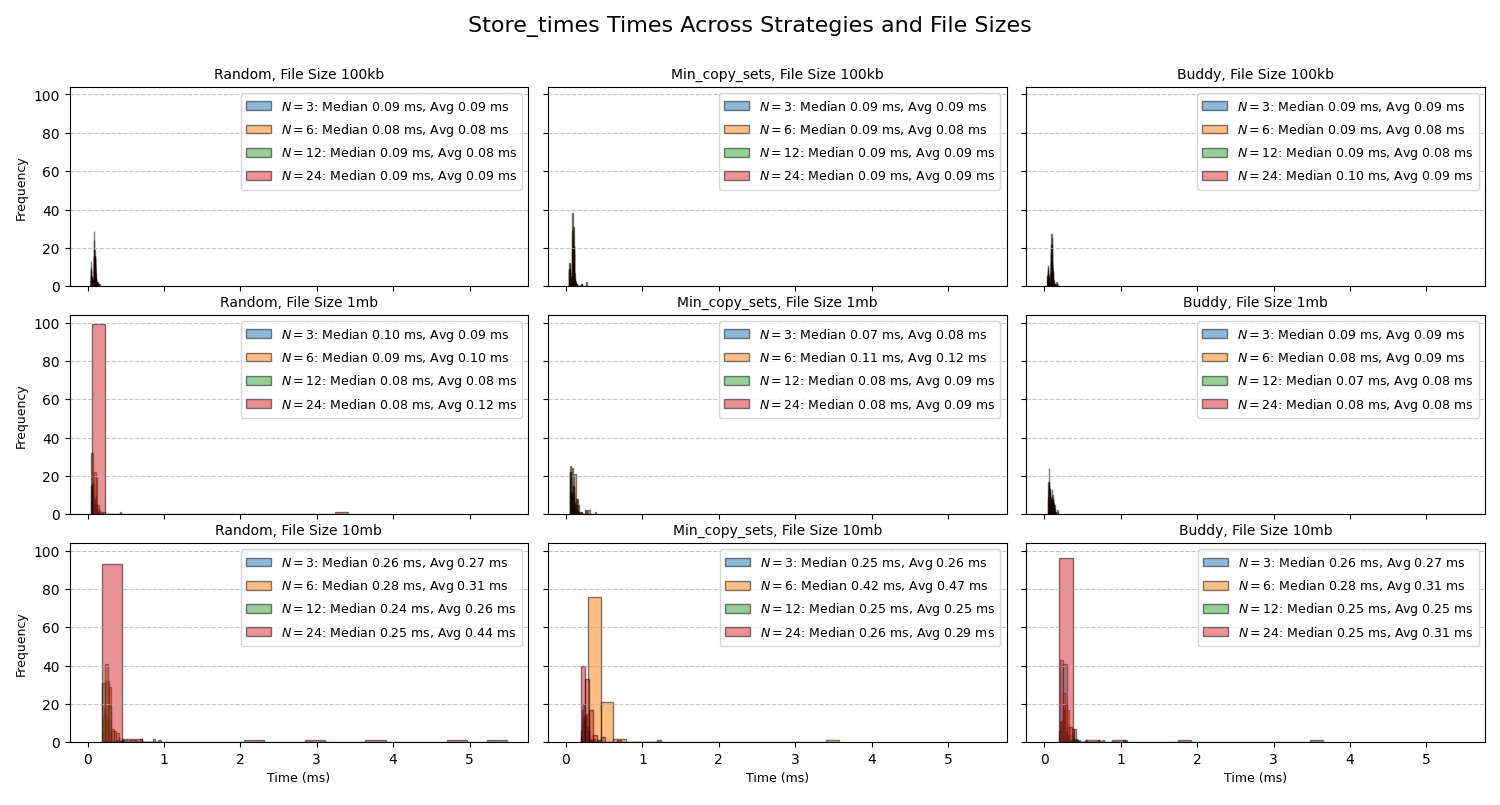
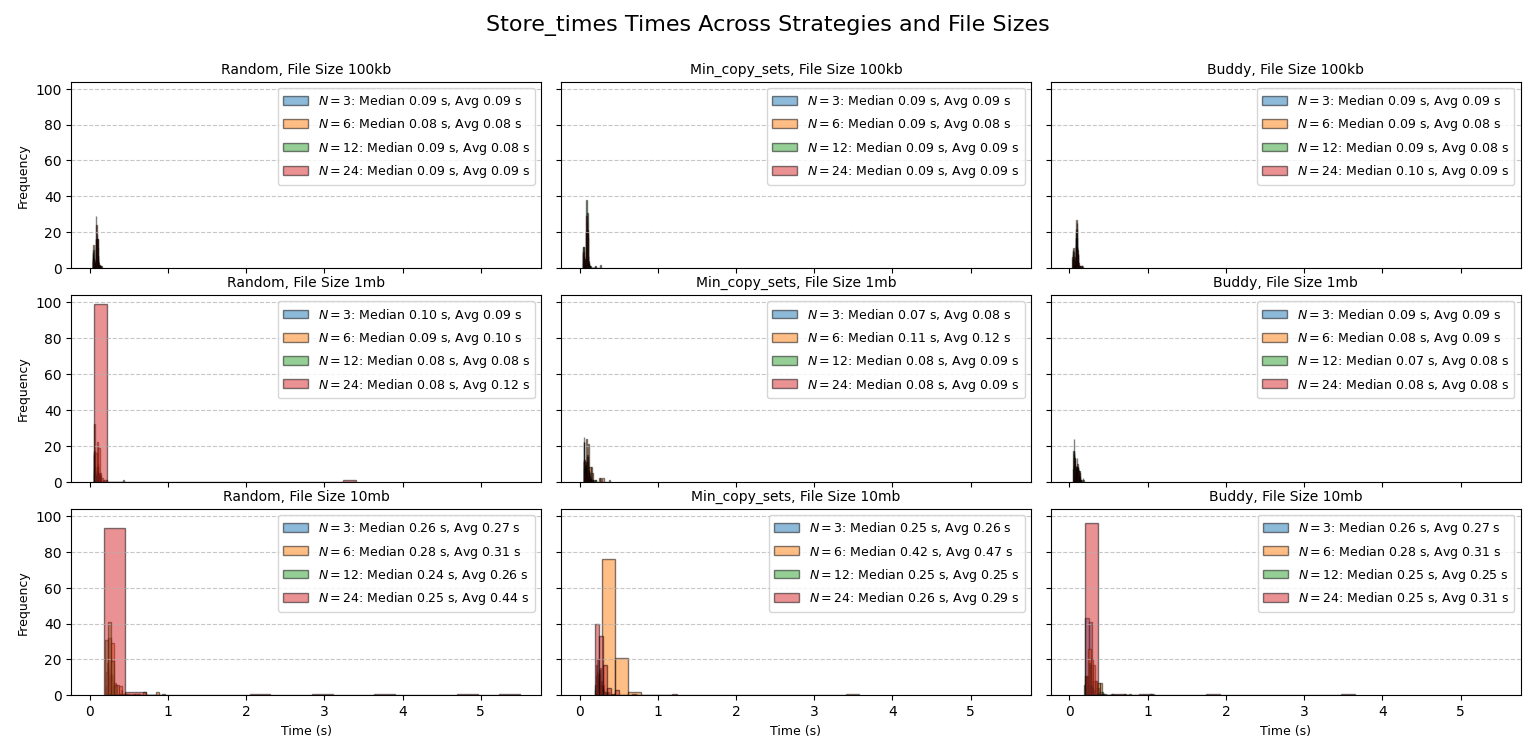
fixed unit to be in s not ms

diff --git a/tests/plot_replication_allocation.py b/tests/plot_replication_allocation.py
@@ -49,13 +49,13 @@ def plot_histograms(data, node_counts, strategies, operation, file_sizes):
                     )
 
                     legends.append(
-                        f"$N=${nodes}: Median {median:.2f} ms, Avg {avg:.2f} ms"
+                        f"$N=${nodes}: Median {median:.2f} s, Avg {avg:.2f} s"
                     )
 
             ax.set_title(f"{strategy.capitalize()}, File Size {readable_sizes[file_size]}", fontsize=10)
             ax.grid(axis="y", linestyle="--", alpha=0.7)
             if i == num_file_sizes - 1:
-                ax.set_xlabel("Time (ms)", fontsize=9)
+                ax.set_xlabel("Time (s)", fontsize=9)
             if j == 0:
                 ax.set_ylabel("Frequency", fontsize=9)
 
@@ -74,8 +74,8 @@ if __name__ == "__main__":
     strategies = ["random", "min_copy_sets", "buddy"]
     operations = ["store_times", "download_times"]
     # file_sizes = [100000.0, 1000000.0, 10000000.0, 100000000.0]
-    # file_sizes = [100000.0, 1000000.0, 10000000.0]
-    file_sizes = [100000000.0]
+    file_sizes = [100000.0, 1000000.0, 10000000.0]
+    # file_sizes = [100000000.0]
 
     # Load files
     files = [f for f in os.listdir(OUT_DIR) if f.endswith(SUFFIX)]
